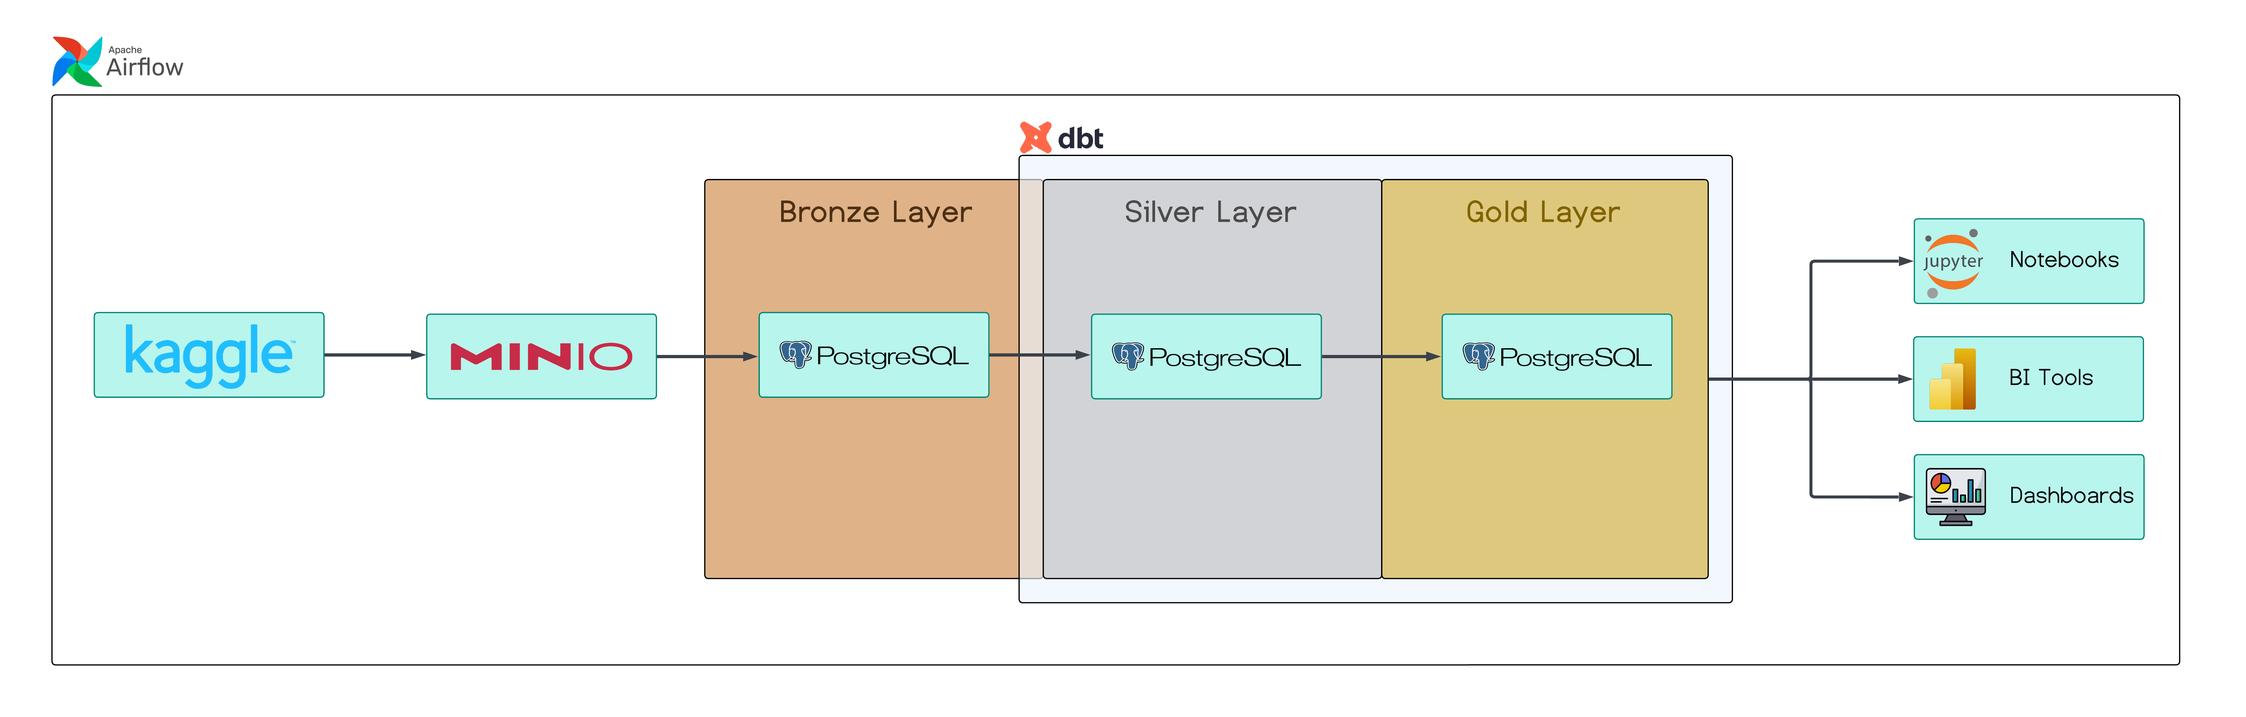
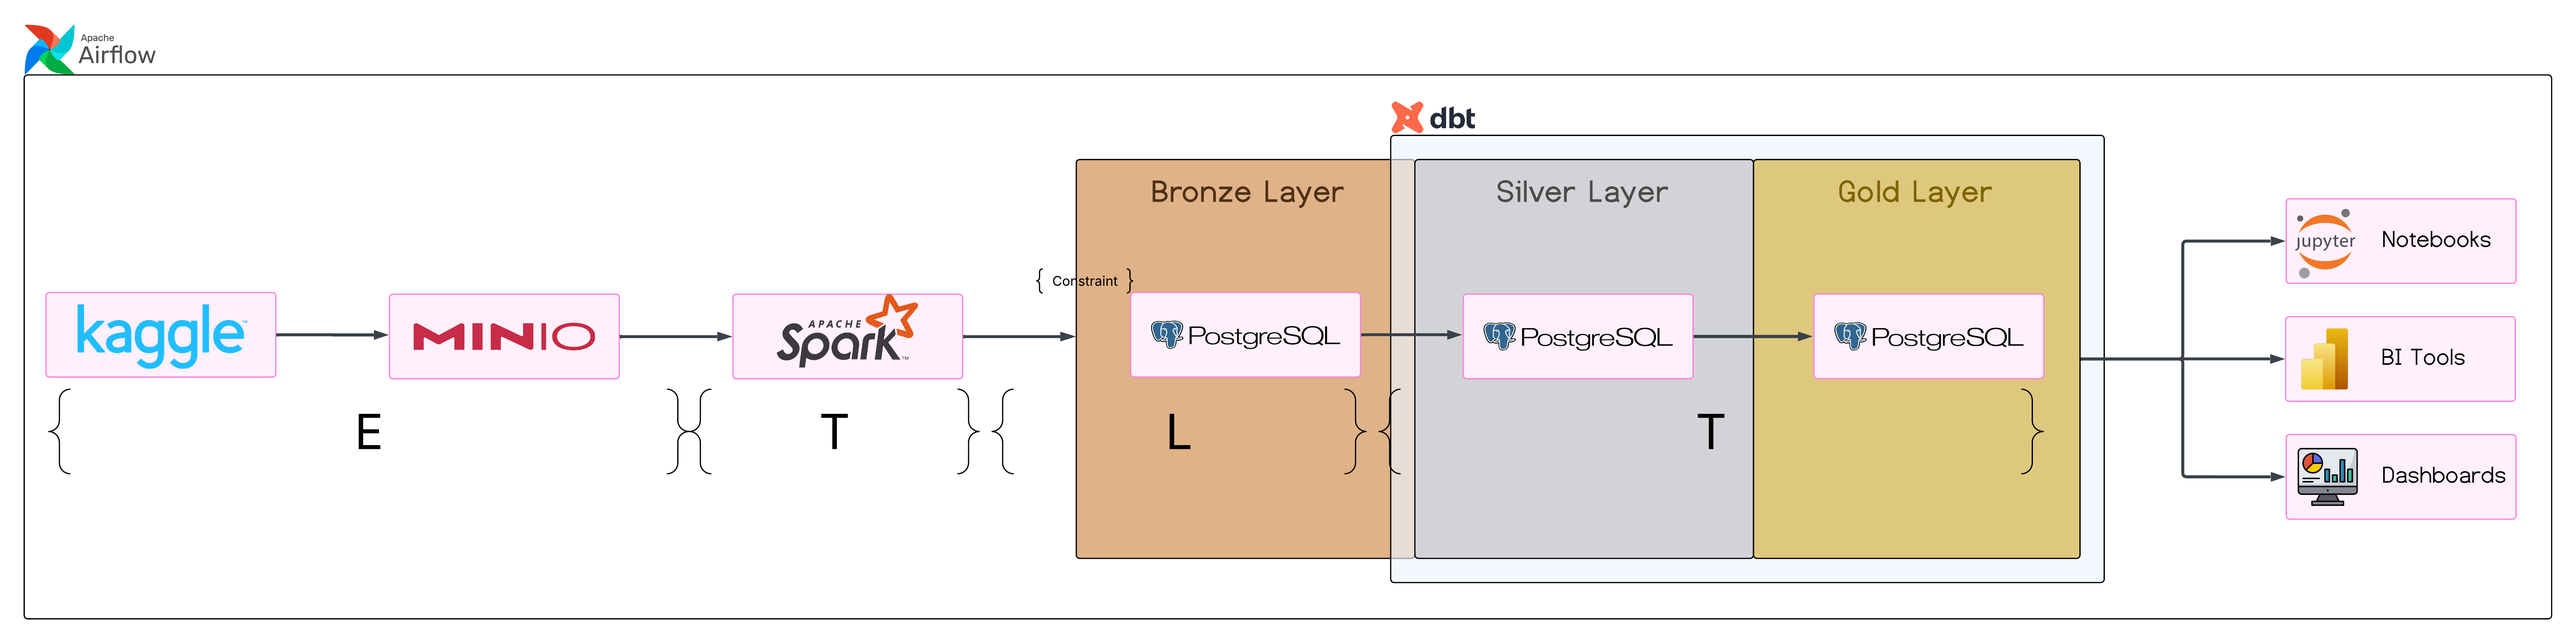
Update README.md

diff --git a/README.md b/README.md
@@ -11,7 +11,7 @@ O objetivo é demonstrar como estruturar um pipeline de dados moderno, desde a i
 A arquitetura segue o conceito de **Lakehouse**, que combina as melhores características de data lakes e data warehouses.
 
 **Camadas:**
-- 🥉 **Bronze:** dados brutos, exatamente como foram extraídos do Kaggle.
+- 🥉 **Bronze:** dados brutos com únicas mudanças sendo redundâncias adicionadas por meio do Spark.
 - 🥈 **Silver:** dados limpos, tratados e integrados.
 - 🥇 **Gold:** modelo dimensional (tabelas `dim_*` e `fct_*`), pronto para consumo analítico.
 
@@ -22,7 +22,7 @@ A arquitetura segue o conceito de **Lakehouse**, que combina as melhores caracte
 ## 🔄 Pipeline de Dados
 
 1. **Ingestão:**  
-   Airflow (via [Astro](https://www.astronomer.io/product/)) orquestra a extração dos dados do [Kaggle](https://www.kaggle.com/datasets/olistbr/brazilian-ecommerce), armazena no [MinIO](https://min.io/) (Data Lake) e depois carrega no [PostgreSQL](https://www.postgresql.org/) (camada bronze).
+   Airflow (via [Astro](https://www.astronomer.io/product/)) orquestra a extração dos dados do [Kaggle](https://www.kaggle.com/datasets/olistbr/brazilian-ecommerce), armazena no [MinIO](https://min.io/) (Data Lake), realiza transformações iniciais complexas via [Apache Spark](https://spark.apache.org/) e depois carrega no [PostgreSQL](https://www.postgresql.org/) (camada bronze).
 
 2. **Transformação:**  
    O [dbt](https://www.getdbt.com/) aplica as transformações necessárias para gerar as camadas **silver** e **gold** dentro do PostgreSQL.
@@ -89,4 +89,9 @@ Os seguintes serviços estão acessíveis a partir destas URLs:
 A Gold layer segue o seguinte diagrama:
 
 ![Diagrama do modelo da gold layer](github-assets/gold_layer_schema.png)
+
+## 💡 Ideias futuras
+- Alterar banco de dados PostgreSQL para um banco de dados colunar.
+- Criar emuladores para haver dados novos diários sendo gerados.
+- Utilizar servidores MCP para o banco de dados e para o Power BI, para que possíveis analistas de dados possam realizar queries e visualizações por meio de linguagem natural.
 
